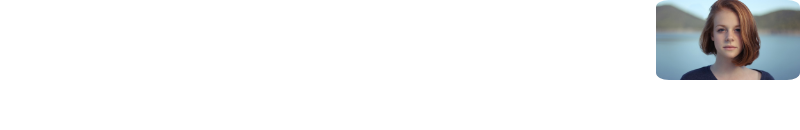
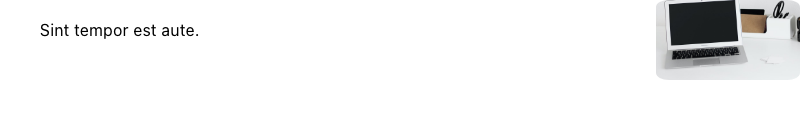
updates

Changed region(s): [[0.8125, 0.0, 1.0, 0.6154], [0.0312, 0.1846, 0.25, 0.2769]]

diff --git a/.slicemachine/assets/slices/TextImageRight/index.stories.js b/.slicemachine/assets/slices/TextImageRight/index.stories.js
@@ -18,7 +18,7 @@ export const _DefaultSlice = () => ({
   },
   data() {
     return {
-      mock: {"variation":"default-slice","name":"Default slice","slice_type":"text_image_right","items":[],"primary":{"textField":[{"type":"paragraph","text":"Anim et ullamco officia nostrud labore incididunt veniam labore.","spans":[]}],"image":{"dimensions":{"width":900,"height":500},"alt":"Placeholder image","copyright":null,"url":"https://images.unsplash.com/photo-1438761681033-6461ffad8d80?w=900&h=500&fit=crop"}},"id":"_DefaultSlice"}
+      mock: {"variation":"default-slice","name":"Default slice","slice_type":"text_image_right","items":[],"primary":{"textField":[{"type":"paragraph","text":"Sint tempor est aute.","spans":[]}],"image":{"dimensions":{"width":900,"height":500},"alt":"Placeholder image","copyright":null,"url":"https://images.unsplash.com/photo-1504198070170-4ca53bb1c1fa?w=900&h=500&fit=crop"}},"id":"_DefaultSlice"}
     }
   },
   template: '<SliceZone :slices="[mock]" :resolver="resolve" />'
@@ -37,7 +37,7 @@ export const _TextImageLeft = () => ({
   },
   data() {
     return {
-      mock: {"variation":"textImageLeft","name":"TextImageLeft","slice_type":"text_image_right","items":[],"primary":{"textField":[{"type":"paragraph","text":"Reprehenderit ad enim mollit esse Lorem commodo cupidatat velit labore. Qui anim pariatur occaecat enim.","spans":[]}],"image":{"dimensions":{"width":900,"height":500},"alt":"Placeholder image","copyright":null,"url":"https://images.unsplash.com/photo-1491975474562-1f4e30bc9468?w=900&h=500&fit=crop"}},"id":"_TextImageLeft"}
+      mock: {"variation":"textImageLeft","name":"TextImageLeft","slice_type":"text_image_right","items":[],"primary":{"textField":[{"type":"paragraph","text":"Irure consequat aliquip Lorem occaecat officia irure qui velit nulla eu non eiusmod amet.","spans":[]}],"image":{"dimensions":{"width":900,"height":500},"alt":"Placeholder image","copyright":null,"url":"https://images.unsplash.com/photo-1496181133206-80ce9b88a853?w=900&h=500&fit=crop"}},"id":"_TextImageLeft"}
     }
   },
   template: '<SliceZone :slices="[mock]" :resolver="resolve" />'
@@ -56,7 +56,7 @@ export const _TitleImage = () => ({
   },
   data() {
     return {
-      mock: {"variation":"titleImage","name":"TitleImage","slice_type":"text_image_right","items":[],"primary":{"image":{"dimensions":{"width":900,"height":500},"alt":"Placeholder image","copyright":null,"url":"https://images.unsplash.com/photo-1433888104365-77d8043c9615?w=900&h=500&fit=crop"},"title":[{"type":"heading2","text":"Transition granular e-tailers","spans":[]}]},"id":"_TitleImage"}
+      mock: {"variation":"titleImage","name":"TitleImage","slice_type":"text_image_right","items":[],"primary":{"image":{"dimensions":{"width":900,"height":500},"alt":"Placeholder image","copyright":null,"url":"https://images.unsplash.com/photo-1471897488648-5eae4ac6686b?w=900&h=500&fit=crop"},"title":[{"type":"heading2","text":"Morph web-enabled bandwidth","spans":[]}]},"id":"_TitleImage"}
     }
   },
   template: '<SliceZone :slices="[mock]" :resolver="resolve" />'
